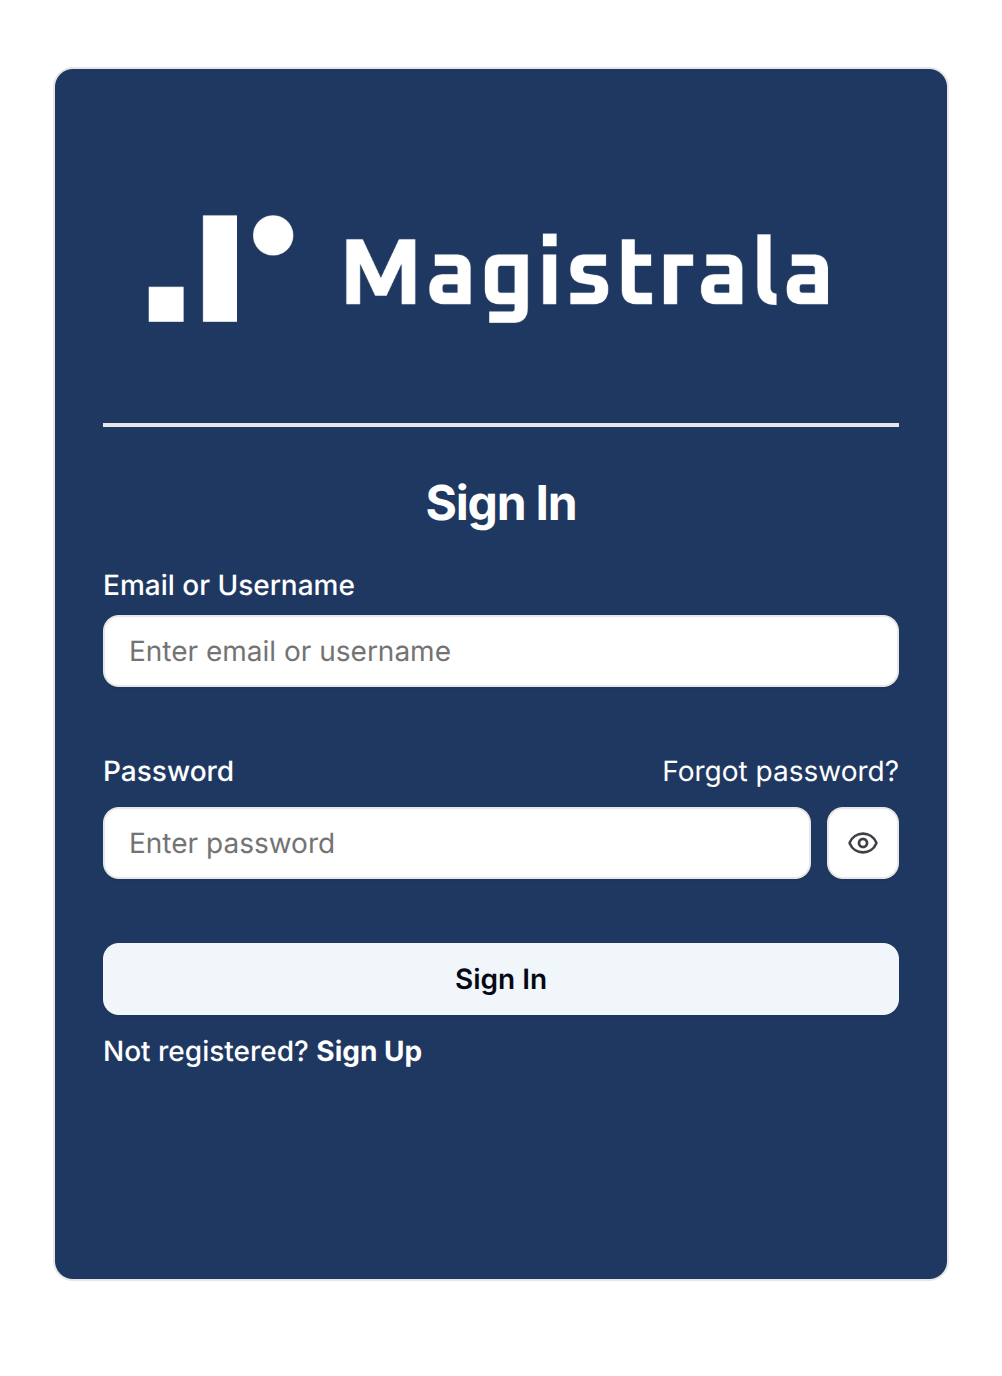
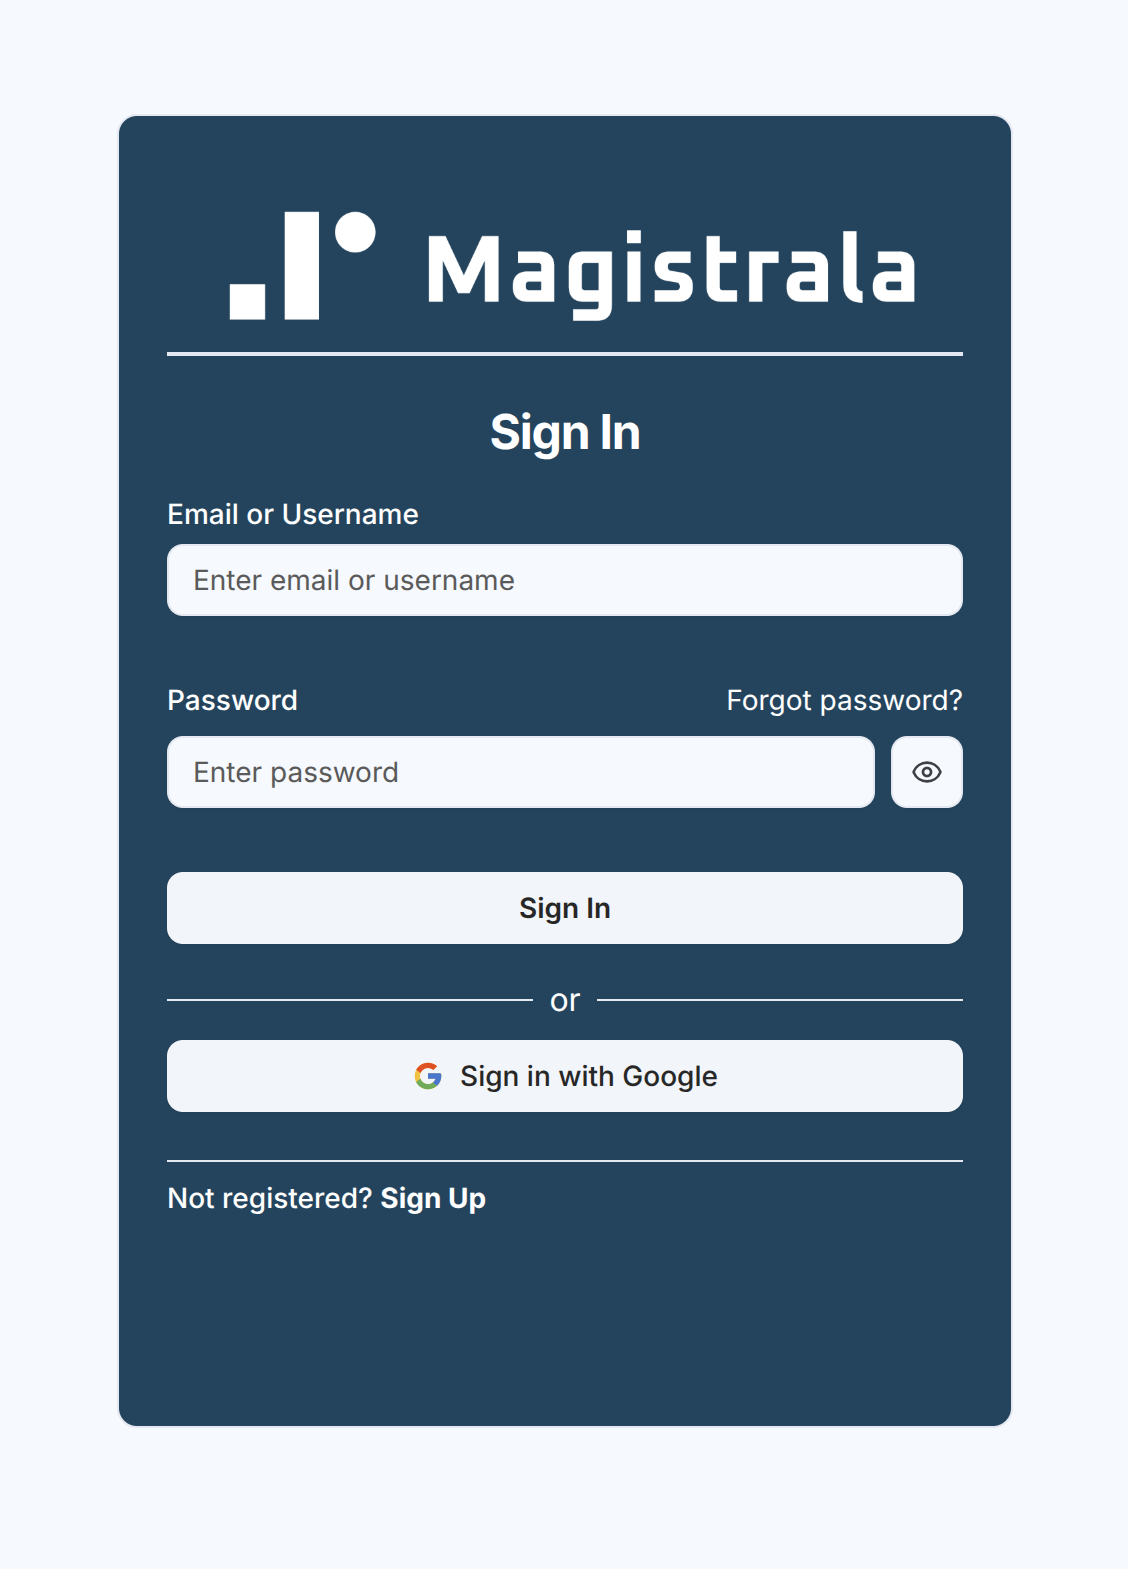
MG-104 - Add Versioning to the Documentation (#119)
* add versioning

* add google-sign

* fix login

* fix env vars

* format table

---------

diff --git a/docusaurus.config.ts b/docusaurus.config.ts
@@ -36,12 +36,20 @@ const config: Config = {
 
   presets: [
     [
-      "classic",
+      '@docusaurus/preset-classic',
       {
         docs: {
           routeBasePath: "/",
           sidebarPath: "sidebars.ts",
           editUrl: "https://github.com/absmach/magistrala-docs/blob/main",
+          includeCurrentVersion: true,
+          lastVersion: 'current',
+          versions: {
+            current: {
+              label: "v1.0.0",
+              path: "",
+            },
+          },
         },
         blog: {
           showReadingTime: true,
@@ -99,12 +107,12 @@ const config: Config = {
       { name: 'twitter:image:alt', content: 'Magistrala Logo' },
     ],
     sitemap: {
-    changefreq: 'weekly',
-    priority: 0.5,
-    filename: 'sitemap.xml',
-    ignorePatterns: ['/tags/**'],
-    createRobotsTxt: false,
-  },
+      changefreq: 'weekly',
+      priority: 0.5,
+      filename: 'sitemap.xml',
+      ignorePatterns: ['/tags/**'],
+      createRobotsTxt: false,
+    },
     navbar: {
       logo: {
         alt: "Magistrala Logo",
@@ -130,6 +138,11 @@ const config: Config = {
           label: "GitHub",
           position: "right",
         },
+        {
+          type: "docsVersionDropdown",
+          position: "right",
+          dropdownActiveClassDisabled: true,
+        }
       ],
     },
     footer: {

diff --git a/docs/dev-guide/authentication.md b/docs/dev-guide/authentication.md
@@ -18,8 +18,8 @@ image: /img/mg-preview.png
 
 For user authentication Magistrala uses **Authentication** keys. There are two types of authentication keys:
 
-- `User key` - Access Token or keys issued to the user upon login request
-- `Recovery key` - Refresh Token or password recovery key
+- `User key` - **Access Token** or keys issued to the user upon login request
+- `Recovery key` - "**Refresh Token**" or "**Password Recovery Key**"
 
 Authentication keys are represented and distributed by the corresponding [JWT][jwt]. User keys are issued when user logs in. Each user request (other than registration and login) contains user key that is used to authenticate the user.
 
@@ -41,27 +41,138 @@ The following actions are supported:
 
 ## Federated authentication
 
-Federated authentication is a process of authenticating users using external identity providers. Magistrala supports federated authentication using [OpenID Connect][oidc] protocol. Magistrala is a resource provider and it uses [Google Identity Platform][google-identity-platform] as an identity provider. To use federated authentication, you need to create a project in Google Cloud Platform and enable Google Identity Platform API. After that, you need to create OAuth 2.0 credentials and configure the consent screen. This can be done by following Google's [documentation][google-identity-platform-docs]. Once you have created OAuth 2.0 credentials, you need to set the following environment variables:
+Federated authentication allows users to sign in to Magistrala using external identity providers such as **Google** through the **[OpenID Connect (OIDC)][oidc]** protocol.
+
+Magistrala acts as an **OIDC resource provider**, while the **[Google Identity Platform][google-identity-platform]** is used as the identity provider (IdP).  
+This integration enables seamless, secure sign-in without requiring users to manually create or manage passwords.
+
+### Prerequisites
+
+Before configuring Magistrala for Google Sign-In:
+
+1. Go to [Google Cloud Console](https://console.cloud.google.com/).
+2. Create a **new project** (or use an existing one).
+3. Enable the **Google Identity Platform API**.
+4. Configure the **OAuth consent screen** and **create OAuth 2.0 credentials** by following Google’s [documentation][google-identity-platform-docs].
+5. Add your authorized redirect URIs (see below).
+
+### Authorized Redirect URIs
+
+Add the following redirect URIs to your Google Cloud project:
+
+| Environment          | Redirect URI                                      |
+|-----------------------|--------------------------------------------------|
+| **Local Development** | `http://localhost:9002/oauth/callback/google`    |
+| **Production**        | `https://<your-domain>/oauth/callback/google`    |
+
+> These URLs must match the value of `SMQ_GOOGLE_REDIRECT_URL` in your `.env` or Docker Compose configuration.
+
+#### Environment Variables
+
+Both the **Magistrala backend** and **Magistrala UI** require the following environment variables to be set:
 
 ```bash
-MG_GOOGLE_CLIENT_ID=985229335584-m2mft8lqbgfn5gfw9ftrm3r2sgu4tsrw.apps.googleusercontent.com
-MG_GOOGLE_CLIENT_SECRET=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YUIpw
-MG_GOOGLE_REDIRECT_URL=http://localhost:3000/oauth/callback/google
+# Google OAuth credentials
+SMQ_GOOGLE_CLIENT_ID=<your-google-client-id>
+SMQ_GOOGLE_CLIENT_SECRET=<your-google-client-secret>
+SMQ_GOOGLE_REDIRECT_URL=http://localhost:9002/oauth/callback/google
+SMQ_GOOGLE_STATE=pGXVNhEeKfycuBzk5InlSfMlEU9UrhlkTUOSqhsgDzXP2Y4RsN
+
+# UI OAuth redirect handling
+SMQ_OAUTH_UI_REDIRECT_URL=http://localhost:3000/api/auth/token
+SMQ_OAUTH_UI_ERROR_URL=http://localhost:3000/login
+
+# Magistrala UI configuration
+MG_GOOGLE_CLIENT_ID=<your-google-client-id>
+MG_GOOGLE_CLIENT_SECRET=<your-google-client-secret>
+MG_GOOGLE_REDIRECT_URL=http://localhost:9002/oauth/callback/google
 MG_GOOGLE_STATE=pGXVNhEeKfycuBzk5InlSfMlEU9UrhlkTUOSqhsgDzXP2Y4RsN
-MG_USERS_UI_REDIRECT_URL=http://localhost:9090
 ```
 
-1. `MG_GOOGLE_CLIENT_ID` - Google OAuth 2.0 client ID
-2. `MG_GOOGLE_CLIENT_SECRET` - Google OAuth 2.0 client secret
-3. `MG_GOOGLE_REDIRECT_URL` - Google OAuth 2.0 redirect URL to handle callback after successful authentication. This URL must be registered in the Google Cloud Platform.
-4. `MG_GOOGLE_STATE` - Random string used to protect against cross-site request forgery attacks.
-5. `MG_USERS_UI_REDIRECT_URL` - URL to redirect user after successful authentication. This can be your Magistrala UI URL.
+>> These credentials must be identical in both the backend and UI configurations to ensure proper OIDC flow.
 
-Magistrala handles the authentication callback at `<MG_BASE_URL>/google-callback` endpoint, where `<MG_BASE_URL>` is the base URL of your Magistrala instance. This endpoint needs to be registered in the Google Cloud Platform and it must match the value of `MG_GOOGLE_REDIRECT_URL` environment variable. If an error occurs, the error message is sent from the backend using a query paramters with the key `error`. The UI will read the error message from the query parameter and display it to the user. When a user signs up, Magistrala creates a local copy of the user with an ID provided by Google, the name and email address provided by Google and the password is left empty as the user is authenticated using Google, i.e. external user. The user can be created only once, so if the user already exists, the error will be sent to the UI via the error cookie. Finally, the user is redirected to the URL provided in `MG_USERS_UI_REDIRECT_URL` environment variable upon successful authentication. This should be the base URL of your UI.
+### Variable Descriptions
 
-The `MG_GOOGLE_CLIENT_ID`, `MG_GOOGLE_CLIENT_SECRET`, `MG_GOOGLE_REDIRECT_URL` and `MG_GOOGLE_STATE` environment variables should be the same for the UI and users service. The `MG_USERS_UI_REDIRECT_URL` environment variable should be the URL of your UI which is used to redirect the user after successful authentication.
+| Variable                        | Description                                                                                                         |
+| ------------------------------- | ------------------------------------------------------------------------------------------------------------------- |
+| **`SMQ_GOOGLE_CLIENT_ID`**      | Google OAuth 2.0 client ID obtained from Google Cloud Console.                                                      |
+| **`SMQ_GOOGLE_CLIENT_SECRET`**  | Google OAuth 2.0 client secret associated with the client ID.                                                       |
+| **`SMQ_GOOGLE_REDIRECT_URL`**   | OAuth 2.0 callback endpoint for the SuperMQ backend. Must match the authorized redirect URI in your Google project. |
+| **`SMQ_GOOGLE_STATE`**          | Random unique string to protect against CSRF attacks during OAuth flow.                                             |
+| **`SMQ_OAUTH_UI_REDIRECT_URL`** | URL where the UI receives tokens after successful authentication (e.g., NextAuth `/api/auth/token`).                |
+| **`SMQ_OAUTH_UI_ERROR_URL`**    | Fallback URL for failed authentications (e.g., login page).                                                         |
+| **`MG_GOOGLE_CLIENT_ID`**       | Google OAuth 2.0 client ID used by the Magistrala UI for initialization.                                            |
+| **`MG_GOOGLE_CLIENT_SECRET`**   | Google OAuth 2.0 client secret used by the Magistrala UI for initialization.                                        |
+| **`MG_GOOGLE_REDIRECT_URL`**    | Redirect URL used by the UI to align with backend callback.                                                         |
+| **`MG_GOOGLE_STATE`**           | Must match backend’s Google OAuth state value.                                                                      |
 
-Magistrala uses the `access_token` provided by Google only to fetch user information which includes user id, name, given name, family name, picture and locale. The `access_token` is not stored in the database and it's not used for any other purpose. The `id_token` is not used as it presents challenges on refreshing it, thus Magistrala issues its own `access_token` and `refresh_token` stored in the HTTP-only cookie and it's used to authenticate the user in the subsequent requests.
+#### Flow Overview
+
+1. The user clicks **Sign in with Google** on the Magistrala UI.  
+2. The UI redirects the user to **Google’s OAuth consent screen**.  
+3. After successful authentication, Google redirects to  
+   **`MG_GOOGLE_REDIRECT_URL`** (for example, `http://localhost:9002/oauth/callback/google`).  
+4. The backend exchanges the **authorization code** for a Google **access token**.  
+5. Using the token, Magistrala retrieves basic user info (ID, name, email, profile picture).  
+6. The user is created in Magistrala’s database (if new) and authenticated.  
+7. Magistrala issues its own **access token** and **refresh token**, stored securely as **HTTP-only cookies**.  
+8. The user is redirected to **`SMQ_OAUTH_UI_REDIRECT_URL`**.
+
+- The **`access_token`** from Google is **never stored** in the Magistrala database.  
+- The **`id_token`** is not reused to avoid refresh limitations — Magistrala issues its own tokens instead.  
+- Always use **HTTPS** for production redirect URLs.  
+- Ensure **`MG_GOOGLE_STATE`** is sufficiently random and unique across environments.
+
+#### Example Local Setup
+
+For a local Docker-based environment, add the following lines to your .env or docker-compose.env:
+
+```bash
+## In the SMQ
+
+SMQ_GOOGLE_CLIENT_ID=985229335584-m2mft8lqbgfn5gfw9ftrm3r2sgu4tsrw.apps.googleusercontent.com
+SMQ_GOOGLE_CLIENT_SECRET=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WYUIpw
+SMQ_GOOGLE_REDIRECT_URL=http://localhost:9002/oauth/callback/google
+SMQ_GOOGLE_STATE=pGXVNhEeKfycuBzk5InlSfMlEU9UrhlkTUOSqhsgDzXP2Y4RsN
+SMQ_OAUTH_UI_REDIRECT_URL=http://localhost:3000/api/auth/token
+SMQ_OAUTH_UI_ERROR_URL=http://localhost:3000/login
+
+# In the UI
+
+MG_GOOGLE_CLIENT_ID=985229335584-m2mft8lqbgfn5gfw9ftrm3r2sgu4tsrw.apps.googleusercontent.com
+MG_GOOGLE_CLIENT_SECRET=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WYUIpw
+MG_GOOGLE_REDIRECT_URL=http://localhost:9002/oauth/callback/google
+MG_GOOGLE_STATE=pGXVNhEeKfycuBzk5InlSfMlEU9UrhlkTUOSqhsgDzXP2Y4RsN
+
+```
+
+Finally restart your containers after editing the `.env` file
+
+### Backend Integration
+
+Magistrala handles authentication callbacks at:
+
+```bash
+<MG_BASE_URL>/google-callback
+```
+
+Where `<MG_BASE_URL>` is your backend users service URL (for example, `http://localhost:9002`).
+This endpoint must be registered in your Google Cloud Console and match the value of `MG_GOOGLE_REDIRECT_URL`.
+
+In case of an authentication error, the backend appends a query parameter `?error=<message>` to the redirect URL.
+The UI reads this parameter and displays a corresponding toast or alert.
+
+### Token Management
+
+After Google authentication:
+
+- Magistrala fetches the user’s Google profile (id, email, name, picture, locale).
+- A new Magistrala user entry is created if none exists.
+- Magistrala issues its own secure session tokens:
+  - access_token — short-lived token for API access.
+  - refresh_token — longer-lived token stored in an HTTP-only cookie.
+
+These tokens are used for subsequent API calls across the platform.
 
 ## Authentication with Magistrala keys
 

diff --git a/docs/user-guide/users-quick-start.md b/docs/user-guide/users-quick-start.md
@@ -27,7 +27,47 @@ To get started, create an account by providing the following details in the Sign
 
 > **NB:** Please review and accept our Terms of Service and Privacy Policy to proceed with registration.
 
-Once registered, the user will be redirected to the **Domains Homepage**, where they can create and manage multiple domains.
+### Sign Up with Google
+
+Alternatively, you can create a new Magistrala account using **Google Sign-Up**.  
+On the **Sign Up** page, check the boxes for:
+
+- *I agree to the Terms of Service*  
+- *I agree to the Privacy Policy*
+
+Then click **Sign up with Google**.
+
+Select your Google account to complete registration. You’ll be redirected to the **Domains Homepage**, where you can create or join existing domains.
+
+![Google Sign Up](../img/users-guide/google-signup-page.png)
+
+## Verify Your Email
+
+After signing up, you’ll be redirected to your **Profile Page**, where you’ll need to verify your email before proceeding.
+
+![Email Verification Page](../img/users-guide/email-verification-page.png)
+
+A confirmation email will be sent to the address you registered with.  
+Open the email titled **“Welcome to Magistrala!”** and click on the **Verify Email Address** button.
+
+![Email Verification Message](../img/users-guide/email-verification-mail.png)
+
+If the button doesn’t work, you can also copy the verification link provided in the email and paste it directly into your browser.
+
+> **Important:**  
+> The verification link is valid for **24 hours** for security reasons.  
+> If it expires or you didn’t receive the email, click **Resend Email Verification** on your profile page.
+
+Once verified, your profile status will update to **Verified**, and you’ll gain full access to the platform, including the ability to log in to domains.
+
+### After Verification
+
+After your email has been verified:
+
+- You’ll be redirected to the **Domains Homepage**.  
+- From there, you can create a new domain or access any existing ones you belong to.
+
+> **Tip:** If you’ve already verified your email and are still on the verification page, click **Go to Domains Page** to continue.
 
 ![Domain Homepage](../img/users-guide/janedoe-domainshome.png)
 
@@ -36,6 +76,18 @@ Once registered, the user will be redirected to the **Domains Homepage**, where 
 In case you already have an account, you can log in with your email/username and password.
 
 ![Login](../img/users-guide/main-login.png)
+
+Magistrala also supports authentication using **Google Sign-In** for faster and more secure access.
+On the **Sign In** page, click **Sign in with Google**.
+
+You’ll be redirected to a secure Google authentication page like the one below.
+
+![Google Sign In](../img/users-guide/google-signup-page.png)
+
+Choose your preferred Google account to continue. Once authenticated, you’ll be redirected back to Magistrala and automatically logged in.
+
+> **Note:**  
+> If this is your first time signing in with Google, Magistrala will automatically create a new user profile associated with your Google email.
 
 ## Log into a Domain
 
@@ -56,7 +108,7 @@ We will delve deeper into Domains in [another section](./domain-management/domai
 
 Once logged in, you will be directed to the **Homepage** where you can view all the available entities in the domain.
 
-On the sidebar navigation, click on **Groups** under the _Clients Management_ section to be redirected to the groups page.
+On the sidebar navigation, click on **Groups** under the *Clients Management* section to be redirected to the groups page.
 
 ![Groups Page](../img/users-guide/jdoe-groups-page.png)
 
@@ -82,7 +134,7 @@ Adding tags can help you quickly locate and manage clients in larger setups.
 
 ![Create Client](../img/users-guide/group-client-create.png)
 
-A user can also create bulk clients by clicking on the `Upload` button. This will lead to a dialog box that takes in a _.CSV_  file with the client's details filled in correctly as seen in these [samples](https://github.com/absmach/magistrala-ui/tree/main/samples).
+A user can also create bulk clients by clicking on the `Upload` button. This will lead to a dialog box that takes in a *.CSV*  file with the client's details filled in correctly as seen in these [samples](https://github.com/absmach/magistrala-ui/tree/main/samples).
 
 The file should have the following fields in order:
 
